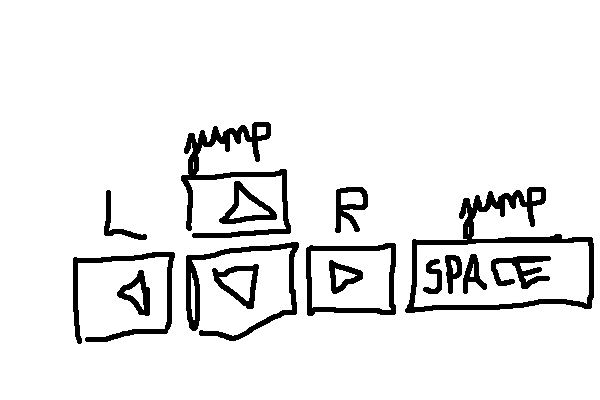
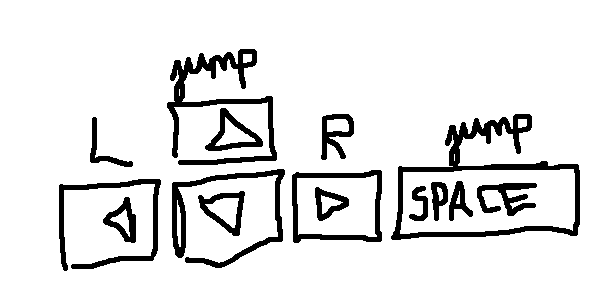
echap menu added, decor added

Changed region(s): [[0.09, 0.15, 0.99, 0.9]]

diff --git a/src/lvl1.py b/src/lvl1.py
@@ -1,10 +1,10 @@
 import pygame
 import sys
+import os
 
 from utils import update, collisionObstacle
 from personnage import Personnage
 from obstacle import Obstacle
-import echap
 
 pygame.init()
 
@@ -16,10 +16,15 @@ COULEUR_FOND = (255,255,255)
 TITRE_ECRAN = "DeathRunner"
 FPS = 60
 
-## Création de la fenêtre 
+# Création de la fenêtre 
 
 ecran = pygame.display.set_mode((LARGEUR_ECRAN,HAUTEUR_ECRAN))
 pygame.display.set_caption(TITRE_ECRAN)
+
+# Gestion des décors 
+dossierActuel = os.path.dirname(__file__)
+controlsPath = os.path.join(dossierActuel, "..", "ressources","controls_lvl1.png")
+controlsPathAbsolute = pygame.image.load(controlsPath), (0,0)
 
 # Création du perso 
 personnage = Personnage(100,300)
@@ -30,6 +35,8 @@ obstacleLarge1 = Obstacle(300,500,"../ressources/largeRectObst.png")
 obstacleLarge2 = Obstacle (600,300,"../ressources/largeRectObst.png")
 obstacleLarge3 = Obstacle (900,200,"../ressources/largeRectObst.png")
 
+
+ETAT_JEU = "ingame"
 running = True
 clock = pygame.time.Clock()
 
@@ -43,49 +50,61 @@ while running :
         if event.type == pygame.QUIT : 
             running = False
 
-    #MAJ du jeu 
-    # Gestion des mouvements du perso 
-    touches = pygame.key.get_pressed()
-    if touches[pygame.K_ESCAPE] : 
-        import echap
-        echap.runEchap()
-    else : 
-        update(personnage,touches)
+    if ETAT_JEU == "ingame" : 
+
+        #MAJ du jeu 
+        # Gestion des mouvements du perso 
+
+        touches = pygame.key.get_pressed()
+
+        if touches[pygame.K_ESCAPE] : 
+            ETAT_JEU = "menu"
+        else : 
+            update(personnage,touches)
 
 
-    #Efface l'écran 
-    ecran.fill(COULEUR_FOND)
-
-    #Dessine le perso 
-    personnage.dessiner(ecran)
-
-    #Dessine les obstacles 
-    obstacleGround.dessiner(ecran)
-    obstacleLarge1.dessiner(ecran)
-    obstacleLarge2.dessiner(ecran)
-    obstacleLarge3.dessiner(ecran)
-
-
-    #Gestion des collisions : 
-    if collisionObstacle(personnage,obstacleLarge1) : 
-        personnage.y = obstacleLarge1.y - 120
-        personnage.velY = 0  # Arrête le saut du personnage
-        personnage.solTrue = True  # Indique que le personnage est sur le sol
+        #Efface l'écran 
+        ecran.fill(COULEUR_FOND)
         
-    if collisionObstacle(personnage,obstacleLarge2) : 
-        personnage.y = obstacleLarge2.y - 120
-        personnage.velY = 0  # Arrête le saut du personnage
-        personnage.solTrue = True  # Indique que le personnage est sur le sol
+        #Dessine le décor 
+        ecran.blit(controlsPathAbsolute[0], (0, 0)) 
 
-    if collisionObstacle(personnage,obstacleLarge3) : 
-        personnage.y = obstacleLarge3.y - 120
-        personnage.velY = 0  # Arrête le saut du personnage
-        personnage.solTrue = True  # Indique que le personnage est sur le sol
+        #Dessine le perso 
+        personnage.dessiner(ecran)
 
-    #Affichage du jeu
-    # Mets à jour l'affichage 
-    pygame.display.flip()
-    clock.tick(FPS)
+        #Dessine les obstacles 
+        obstacleGround.dessiner(ecran)
+        obstacleLarge1.dessiner(ecran)
+        obstacleLarge2.dessiner(ecran)
+        obstacleLarge3.dessiner(ecran)
 
+        #Gestion des collisions : 
+        if collisionObstacle(personnage,obstacleLarge1) : 
+            personnage.y = obstacleLarge1.y - 120
+            personnage.velY = 0  # Arrête le saut du personnage
+            personnage.solTrue = True  # Indique que le personnage est sur le sol
+        
+        if collisionObstacle(personnage,obstacleLarge2) : 
+            personnage.y = obstacleLarge2.y - 120
+            personnage.velY = 0  # Arrête le saut du personnage
+            personnage.solTrue = True  # Indique que le personnage est sur le sol
+
+        if collisionObstacle(personnage,obstacleLarge3) : 
+            personnage.y = obstacleLarge3.y - 120
+            personnage.velY = 0  # Arrête le saut du personnage
+            personnage.solTrue = True  # Indique que le personnage est sur le sol
+
+        #Affichage du jeu
+        # Mets à jour l'affichage 
+        pygame.display.flip()
+        clock.tick(FPS)
+
+    elif ETAT_JEU == "menu" : 
+        import echap
+        if echap.runEchap() : 
+            ETAT_JEU = "ingame"
+        
+
+    
 pygame.quit()
 sys.exit()

diff --git a/src/echap.py b/src/echap.py
@@ -1,5 +1,4 @@
 import pygame
-import sys
 import os
 
 from personnage import Personnage
@@ -25,12 +24,10 @@ screenPath = os.path.join(dossierActuel, "..", "ressources", "echapScreen.png")
 imageBackground = pygame.image.load(screenPath)
 
 
-
-# Gestion des obstacles du niveau 
-
 def runEchap() : 
 
     running = True
+    returnGame = False
 
     while running : 
 
@@ -39,6 +36,11 @@ def runEchap() :
 
             if event.type == pygame.QUIT : 
                 running = False
+            
+            if event.type == pygame.KEYDOWN : 
+                if event.key == pygame.K_ESCAPE : 
+                    returnGame = True 
+                    running = False 
 
         #MAJ du jeu 
 
@@ -55,4 +57,4 @@ def runEchap() :
         pygame.display.flip()
 
     pygame.quit()
-    sys.exit()
+    return returnGame

diff --git a/src/personnage.py b/src/personnage.py
@@ -43,6 +43,7 @@ class Personnage :
         if self.solTrue : 
             self.velY = -20
             self.solTrue = False
+            
     def dessiner(self,ecran) :
 
         #Afficher l'image actuelle 
